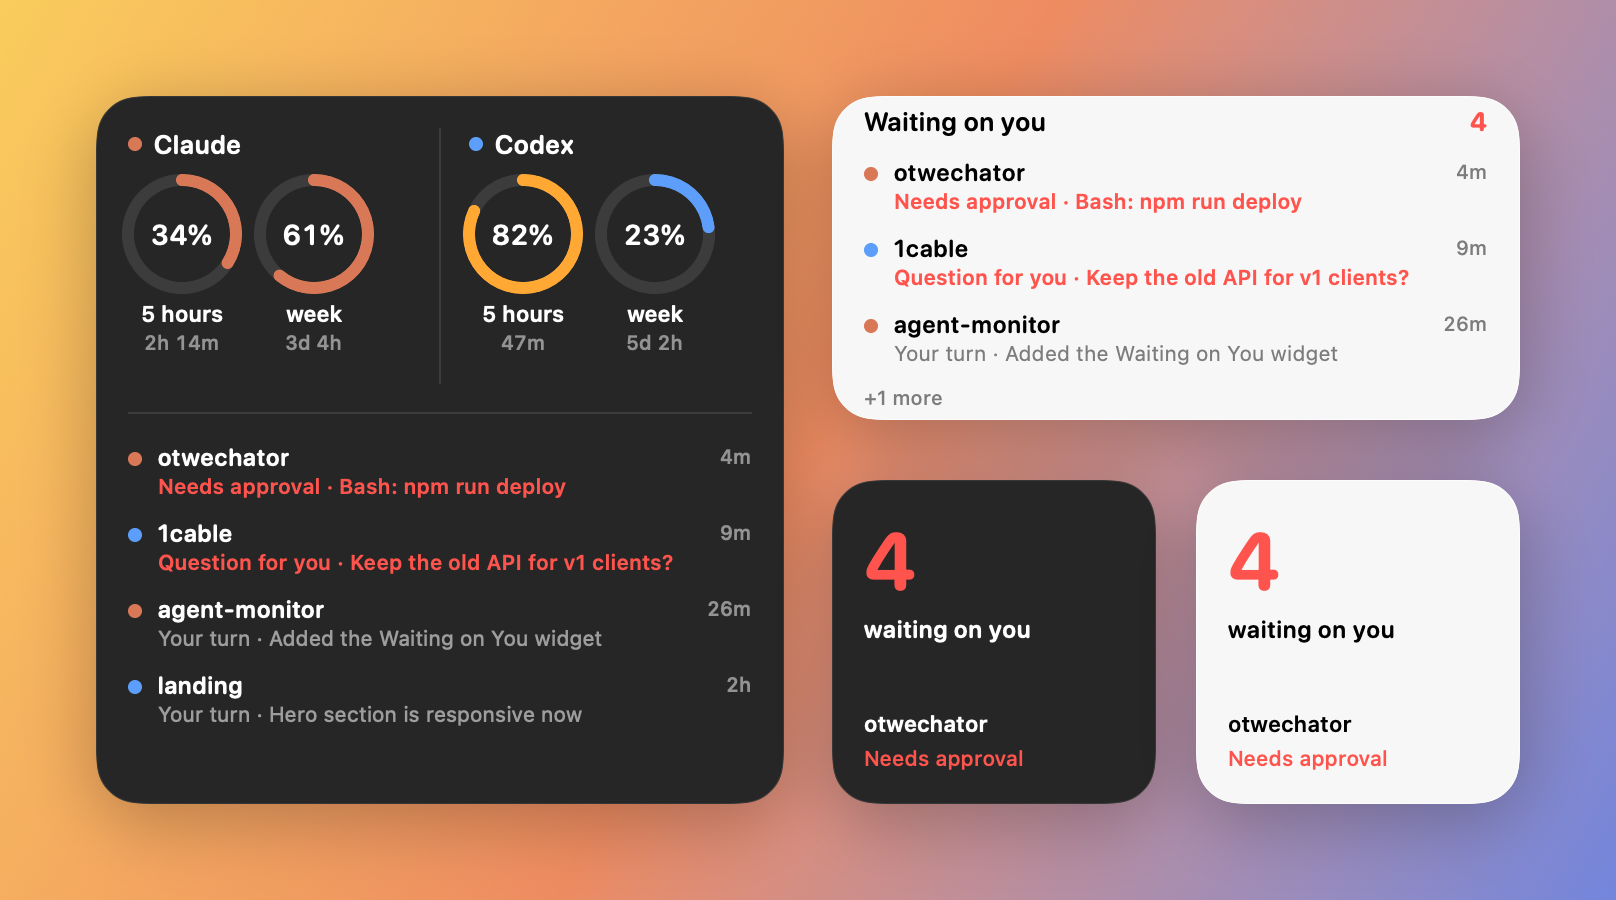
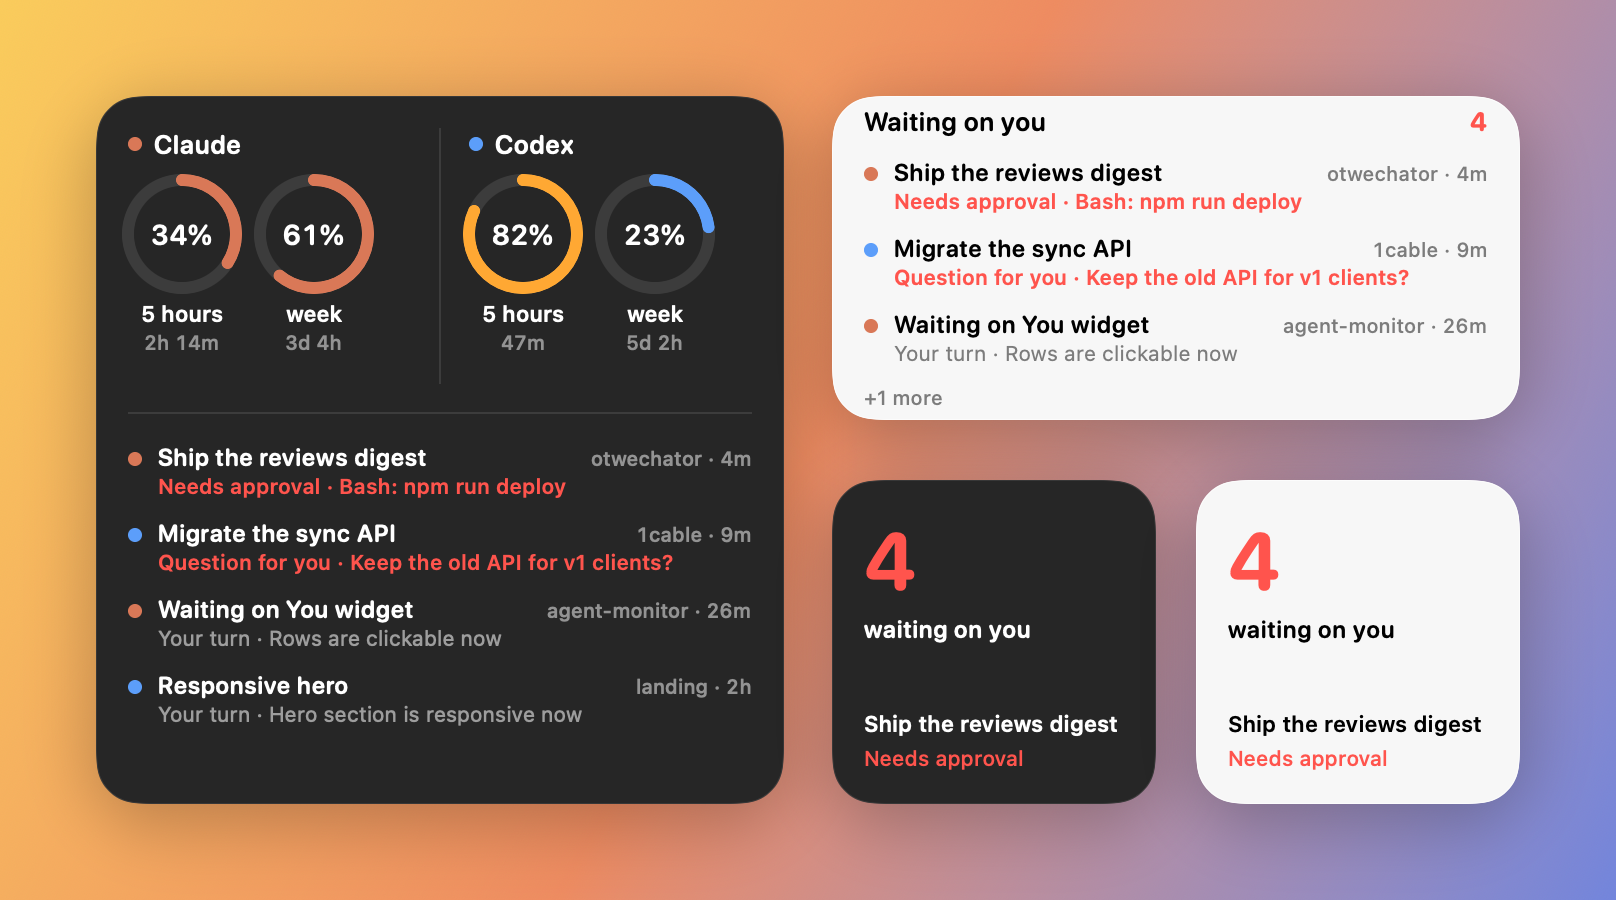
Тайтлы сессий и клик по строке виджета
- В строках виджета и меню название сессии (session_title у Claude,
  thread_name из ~/.codex/session_index.jsonl у Codex), справа проект и время
- Клик по строке: agentmonitor://session/<id> → в Terminal и iTerm2 выбирается
  нужная вкладка по tty агента, иначе приложение выводится на передний план
  через Launch Services (activate() на macOS 14+ игнорируется фоновыми приложениями)
- Markdown в сводке последнего ответа превращается в обычный текст
- README и превью обновлены

diff --git a/App/Hook.swift b/App/Hook.swift
@@ -20,6 +20,7 @@ enum Hook {
             ?? AgentSession(agent: agent, sessionId: sid, cwd: cwd, state: .idle, since: now, updated: now)
         if !cwd.isEmpty { s.cwd = cwd }
         if let t = j["session_title"] as? String, !t.isEmpty { s.title = t }
+        if agent == "codex", let t = codexThreadName(sid) { s.title = t }
         s.pid = agentPID()
 
         let tool = j["tool_name"] as? String
@@ -50,7 +51,7 @@ enum Hook {
         case "Stop":
             let busy = !((j["background_tasks"] as? [Any]) ?? []).isEmpty
                 || !((j["session_crons"] as? [Any]) ?? []).isEmpty
-            next = busy ? (.working, nil) : (.yourTurn, firstLine(j["last_assistant_message"] as? String ?? "", 90))
+            next = busy ? (.working, nil) : (.yourTurn, firstLine(plain(j["last_assistant_message"] as? String ?? ""), 90))
         case "StopFailure":
             next = (.yourTurn, "Stopped with an error")
         case "Interrupt":
@@ -69,6 +70,35 @@ enum Hook {
     }
 
     // MARK: - Helpers
+
+    /// Strips common Markdown so a summary reads as plain text: [text](url) → text, **bold**, `code`, # headings, list bullets.
+    static func plain(_ s: String) -> String {
+        var t = s
+        let rules: [(String, String)] = [
+            (#"!?\[([^\]]*)\]\([^)]*\)"#, "$1"),
+            (#"(\*\*|__|`)"#, ""),
+            (#"(?m)^\s{0,3}(#{1,6}|[-*+]|\d+\.)\s+"#, ""),
+        ]
+        for (p, r) in rules { t = t.replacingOccurrences(of: p, with: r, options: .regularExpression) }
+        return t
+    }
+
+    /// Codex keeps thread names in ~/.codex/session_index.jsonl ({"id", "thread_name"}); the latest entry wins.
+    static func codexThreadName(_ id: String) -> String? {
+        let url = FileManager.default.homeDirectoryForCurrentUser.appendingPathComponent(".codex/session_index.jsonl")
+        guard let fh = try? FileHandle(forReadingFrom: url) else { return nil }
+        defer { try? fh.close() }
+        let size = (try? fh.seekToEnd()) ?? 0
+        try? fh.seek(toOffset: size > 512_000 ? size - 512_000 : 0)
+        guard let text = String(data: fh.readDataToEndOfFile(), encoding: .utf8) else { return nil }
+        for line in text.split(separator: "\n").reversed() where line.contains(id) {
+            if let o = try? JSONSerialization.jsonObject(with: Data(line.utf8)) as? [String: Any],
+               o["id"] as? String == id, let name = o["thread_name"] as? String, !name.isEmpty {
+                return name
+            }
+        }
+        return nil
+    }
 
     static func firstLine(_ s: String, _ max: Int) -> String {
         let line = s.split(whereSeparator: \.isNewline).first.map(String.init) ?? ""
@@ -117,6 +147,16 @@ enum Proc {
         var buf = [CChar](repeating: 0, count: 256)
         proc_name(pid, &buf, UInt32(buf.count))
         return String(cString: buf)
+    }
+
+    /// Controlling terminal of a process, e.g. "/dev/ttys003".
+    static func tty(_ pid: pid_t) -> String? {
+        var info = proc_bsdinfo()
+        let size = Int32(MemoryLayout<proc_bsdinfo>.size)
+        guard proc_pidinfo(pid, PROC_PIDTBSDINFO, 0, &info, size) == size else { return nil }
+        let raw = info.e_tdev                       // NODEV (all ones) = no controlling terminal
+        guard raw != UInt32.max, raw != 0, let name = devname(dev_t(bitPattern: raw), S_IFCHR) else { return nil }
+        return "/dev/" + String(cString: name)
     }
 
     static func isAlive(_ pid: pid_t) -> Bool {

diff --git a/Widget/WidgetViews.swift b/Widget/WidgetViews.swift
@@ -172,24 +172,31 @@ struct WaitingRow: View {
     let s: AgentSession
     let now: Date
     var body: some View {
-        HStack(alignment: .top, spacing: 8) {
-            Circle().fill(s.agent == "claude" ? Palette.claude : Palette.codex)
-                .frame(width: 7, height: 7)
-                .padding(.top, 5)
-            VStack(alignment: .leading, spacing: 1) {
-                HStack(spacing: 6) {
-                    Text(s.project).font(.system(size: 12, weight: .semibold, design: .rounded)).lineLimit(1)
-                    Spacer(minLength: 4)
-                    Text(ago(s.since, now: now))
-                        .font(.system(size: 10, weight: .medium)).monospacedDigit()
-                        .foregroundStyle(.secondary)
+        Link(destination: s.openURL) {
+            HStack(alignment: .top, spacing: 8) {
+                Circle().fill(s.agent == "claude" ? Palette.claude : Palette.codex)
+                    .frame(width: 7, height: 7)
+                    .padding(.top, 5)
+                VStack(alignment: .leading, spacing: 1) {
+                    HStack(alignment: .firstTextBaseline, spacing: 6) {
+                        Text(s.displayTitle)
+                            .font(.system(size: 12, weight: .semibold, design: .rounded))
+                            .lineLimit(1)
+                        Spacer(minLength: 4)
+                        Text(s.displayTitle == s.project ? ago(s.since, now: now) : "\(s.project) · \(ago(s.since, now: now))")
+                            .font(.system(size: 10, weight: .medium)).monospacedDigit()
+                            .foregroundStyle(.secondary)
+                            .lineLimit(1)
+                            .layoutPriority(-1)
+                    }
+                    Text(s.detail.map { "\(s.state.label) · \($0)" } ?? s.state.label)
+                        .font(.system(size: 10.5, weight: s.state.isBlocking ? .semibold : .regular))
+                        .foregroundStyle(StateColor.of(s.state))
+                        .lineLimit(1)
                 }
-                Text(s.detail.map { "\(s.state.label) · \($0)" } ?? s.state.label)
-                    .font(.system(size: 10.5, weight: s.state.isBlocking ? .semibold : .regular))
-                    .foregroundStyle(StateColor.of(s.state))
-                    .lineLimit(1)
             }
         }
+        .buttonStyle(.plain)
     }
 }
 
@@ -251,12 +258,13 @@ struct WaitingSmallView: View {
                 .font(.system(size: 12, weight: .semibold, design: .rounded))
             Spacer(minLength: 0)
             if let s = list.first {
-                Text(s.project).font(.system(size: 11, weight: .semibold)).lineLimit(1)
+                Text(s.displayTitle).font(.system(size: 11, weight: .semibold)).lineLimit(2)
                 Text(s.state.label).font(.system(size: 10.5, weight: .medium))
                     .foregroundStyle(StateColor.of(s.state)).lineLimit(1)
             }
         }
         .frame(maxWidth: .infinity, maxHeight: .infinity, alignment: .topLeading)
+        .widgetURL(list.first?.openURL)   // small widgets support only one tap target
     }
 }
 

diff --git a/App/Jumper.swift b/App/Jumper.swift
@@ -1,0 +1,77 @@
+// Brings the user to an agent session: the exact tab in Terminal/iTerm2 (matched by tty),
+// otherwise the app hosting the agent (Claude, Codex, VS Code, Ghostty, …).
+import AppKit
+
+@MainActor
+enum Jumper {
+    static func open(_ s: AgentSession) {
+        guard let pid = s.pid else { return }
+        guard let app = hostApp(pid) else { return }
+        if let tty = Proc.tty(pid), selectTab(in: app, tty: tty) { return }
+        bringToFront(app)
+    }
+
+    /// `NSRunningApplication.activate()` is ignored for a background app on macOS 14+ (cooperative activation),
+    /// so "re-open" the app through Launch Services instead, the same way Finder does.
+    static func bringToFront(_ app: NSRunningApplication) {
+        guard let url = app.bundleURL else { app.activate(); return }
+        let cfg = NSWorkspace.OpenConfiguration()
+        cfg.activates = true
+        NSWorkspace.shared.openApplication(at: url, configuration: cfg) { _, error in
+            if let error { NSLog("AgentMonitor: can't activate \(url.lastPathComponent): \(error)") }
+        }
+    }
+
+    static func hostApp(_ pid: pid_t) -> NSRunningApplication? {
+        for p in Proc.ancestors(pid) {
+            if let app = NSRunningApplication(processIdentifier: p), app.activationPolicy == .regular { return app }
+        }
+        return nil
+    }
+
+    private static func selectTab(in app: NSRunningApplication, tty: String) -> Bool {
+        let script: String
+        switch app.bundleIdentifier {
+        case "com.apple.Terminal":
+            script = """
+            tell application "Terminal"
+              repeat with w in windows
+                repeat with t in tabs of w
+                  if tty of t is "\(tty)" then
+                    set selected of t to true
+                    set index of w to 1
+                    activate
+                    return true
+                  end if
+                end repeat
+              end repeat
+            end tell
+            return false
+            """
+        case "com.googlecode.iterm2":
+            script = """
+            tell application "iTerm2"
+              repeat with w in windows
+                repeat with t in tabs of w
+                  repeat with s in sessions of t
+                    if tty of s is "\(tty)" then
+                      select w
+                      tell t to select
+                      tell s to select
+                      activate
+                      return true
+                    end if
+                  end repeat
+                end repeat
+              end repeat
+            end tell
+            return false
+            """
+        default:
+            return false
+        }
+        var err: NSDictionary?
+        let result = NSAppleScript(source: script)?.executeAndReturnError(&err)
+        return err == nil && result?.booleanValue == true
+    }
+}

diff --git a/App/main.swift b/App/main.swift
@@ -108,14 +108,15 @@ final class AppDelegate: NSObject, NSApplicationDelegate, NSMenuDelegate {
             attributes: [.foregroundColor: color, .font: NSFont.monospacedDigitSystemFont(ofSize: 13, weight: .semibold)])
     }
 
-    /// Bring the app hosting the agent to the front (Terminal, iTerm, Ghostty, Claude, Codex, VS Code…).
     @objc private func jump(_ sender: NSMenuItem) {
-        guard let s = sender.representedObject as? AgentSession, let pid = s.pid else { return }
-        for p in Proc.ancestors(pid) {
-            if let app = NSRunningApplication(processIdentifier: p), app.activationPolicy == .regular {
-                app.activate()
-                return
-            }
+        if let s = sender.representedObject as? AgentSession { Jumper.open(s) }
+    }
+
+    /// Widget taps arrive as agentmonitor://session/<id>.
+    func application(_ application: NSApplication, open urls: [URL]) {
+        for url in urls where url.scheme == "agentmonitor" && url.host == "session" {
+            let id = url.lastPathComponent.removingPercentEncoding ?? url.lastPathComponent
+            if let s = SessionStore.load(id) ?? waiting.first(where: { $0.id == id }) { Jumper.open(s) }
         }
     }
 
@@ -137,16 +138,17 @@ final class AppDelegate: NSObject, NSApplicationDelegate, NSMenuDelegate {
             it.target = self
             it.representedObject = s
             let stateColor: NSColor = s.state.isBlocking ? .systemRed : .secondaryLabelColor
-            let t = NSMutableAttributedString(string: "\(s.project)  ", attributes: [.font: NSFont.menuFont(ofSize: 0)])
+            let t = NSMutableAttributedString(string: "\(s.displayTitle)  ", attributes: [.font: NSFont.menuFont(ofSize: 0)])
             t.append(NSAttributedString(string: s.state.label, attributes: [.foregroundColor: stateColor]))
-            t.append(NSAttributedString(string: "  ·  \(s.agentName) · \(ago(s.since, now: now))",
+            let meta = s.displayTitle == s.project ? "" : "\(s.project) · "
+            t.append(NSAttributedString(string: "  ·  \(meta)\(s.agentName) · \(ago(s.since, now: now))",
                                         attributes: [.foregroundColor: NSColor.tertiaryLabelColor]))
             if let d = s.detail {
                 t.append(NSAttributedString(string: "\n\(d)", attributes: [
                     .foregroundColor: NSColor.secondaryLabelColor, .font: NSFont.menuFont(ofSize: 11)]))
             }
             it.attributedTitle = t
-            it.toolTip = s.title
+            it.toolTip = s.cwd
             menu.addItem(it)
         }
 

diff --git a/tools/previews/main.swift b/tools/previews/main.swift
@@ -12,13 +12,13 @@ let demo = Snapshot(
                       week: Limit(percent: 23, resetsAt: now.addingTimeInterval(5 * 86400 + 2 * 3600))),
     updated: now)
 let waitingDemo: [AgentSession] = [
-    AgentSession(agent: "claude", sessionId: "a", cwd: "/otwechator", state: .approval,
+    AgentSession(agent: "claude", sessionId: "a", cwd: "/otwechator", title: "Ship the reviews digest", state: .approval,
                  detail: "Bash: npm run deploy", since: now.addingTimeInterval(-4 * 60), updated: now),
-    AgentSession(agent: "codex", sessionId: "b", cwd: "/1cable", state: .question,
+    AgentSession(agent: "codex", sessionId: "b", cwd: "/1cable", title: "Migrate the sync API", state: .question,
                  detail: "Keep the old API for v1 clients?", since: now.addingTimeInterval(-9 * 60), updated: now),
-    AgentSession(agent: "claude", sessionId: "c", cwd: "/agent-monitor", state: .yourTurn,
-                 detail: "Added the Waiting on You widget", since: now.addingTimeInterval(-26 * 60), updated: now),
-    AgentSession(agent: "codex", sessionId: "d", cwd: "/landing", state: .yourTurn,
+    AgentSession(agent: "claude", sessionId: "c", cwd: "/agent-monitor", title: "Waiting on You widget", state: .yourTurn,
+                 detail: "Rows are clickable now", since: now.addingTimeInterval(-26 * 60), updated: now),
+    AgentSession(agent: "codex", sessionId: "d", cwd: "/landing", title: "Responsive hero", state: .yourTurn,
                  detail: "Hero section is responsive now", since: now.addingTimeInterval(-2 * 3600), updated: now),
 ]
 let entry = Entry(date: now, snapshot: demo, waiting: waitingDemo)

diff --git a/Widget/AgentWidget.swift b/Widget/AgentWidget.swift
@@ -17,9 +17,9 @@ private func liveEntry(_ date: Date) -> Entry {
 
 extension AgentSession {
     static let demo: [AgentSession] = [
-        AgentSession(agent: "claude", sessionId: "1", cwd: "/agent-monitor", state: .approval,
+        AgentSession(agent: "claude", sessionId: "1", cwd: "/agent-monitor", title: "Fix the flaky test", state: .approval,
                      detail: "Bash: npm test", since: Date().addingTimeInterval(-180), updated: Date()),
-        AgentSession(agent: "codex", sessionId: "2", cwd: "/1cable", state: .yourTurn,
+        AgentSession(agent: "codex", sessionId: "2", cwd: "/1cable", title: "Refactor the parser", state: .yourTurn,
                      detail: "Refactored the parser", since: Date().addingTimeInterval(-720), updated: Date()),
     ]
 }

diff --git a/Shared/Sessions.swift b/Shared/Sessions.swift
@@ -43,6 +43,8 @@ struct AgentSession: Codable, Identifiable, Equatable {
         return name.isEmpty ? (agent == "claude" ? "Claude Code" : "Codex") : name
     }
     var agentName: String { agent == "claude" ? "Claude" : "Codex" }
+    var displayTitle: String { (title?.isEmpty == false ? title : nil) ?? project }
+    var openURL: URL { URL(string: "agentmonitor://session/\(id.addingPercentEncoding(withAllowedCharacters: .alphanumerics.union(CharacterSet(charactersIn: "-_"))) ?? id)")! }
 }
 
 enum SessionStore {

diff --git a/README.md b/README.md
@@ -37,7 +37,9 @@ And when you run several agents at once, they quietly stall: one wants approval 
 
 - **Blockers first, in red.** A session shows here when it needs approval for a tool call, asked you a question, or has a plan for you to review.
 - **Finished turns below.** Sessions that completed a turn and are waiting for your next prompt. They hide after 6 hours.
-- **Real time in the menu bar.** The icon shows a count (red when something is blocked). Click a session to jump to the app it runs in: Terminal, iTerm, Ghostty, Claude, Codex, VS Code…
+- **Session titles.** Each row shows the session's title (Claude Code's session title, Codex's thread name), the project folder and how long it has been waiting.
+- **Click to jump.** Click a row in the widget or the menu: in Terminal and iTerm2 it selects the exact tab; for other hosts (the Claude and Codex apps, VS Code, Ghostty…) it brings the app to the front.
+- **Real time in the menu bar.** The icon shows a count, red when something is blocked.
 - **Works across surfaces.** Terminal sessions and desktop apps alike, via the agents' official hooks.
 - **Dead sessions clean themselves up.** On session end, or when the agent process is gone.
 
@@ -135,7 +137,7 @@ Both agents support lifecycle hooks with nearly the same events. The installed h
 - **Both usage endpoints are undocumented.** They're what the official tools use internally, and they can change without notice. If a number disappears after an update, please open an issue.
 - **Claude tokens expire.** Claude Code refreshes its token when you use it. If the widget says *Token expired*, open Claude Code once.
 - **Widgets lag; the menu bar doesn't.** macOS limits how often widgets redraw, roughly every 15–30 minutes for an app in the background. The menu bar count is live; treat the widget as an overview.
-- **Jumping goes to the app, not the exact tab.** Clicking a session activates the terminal or app that runs it.
+- **Exact-tab jumping works in Terminal and iTerm2 only.** The first time, macOS asks to let Agent Monitor control that terminal (Automation). Other hosts are brought to the front, without selecting the specific session.
 - **The Codex fallback can be stale.** When the API isn't reachable, the numbers come from your last Codex session. A window that has already reset is shown as 0%.
 
 ## Troubleshooting
